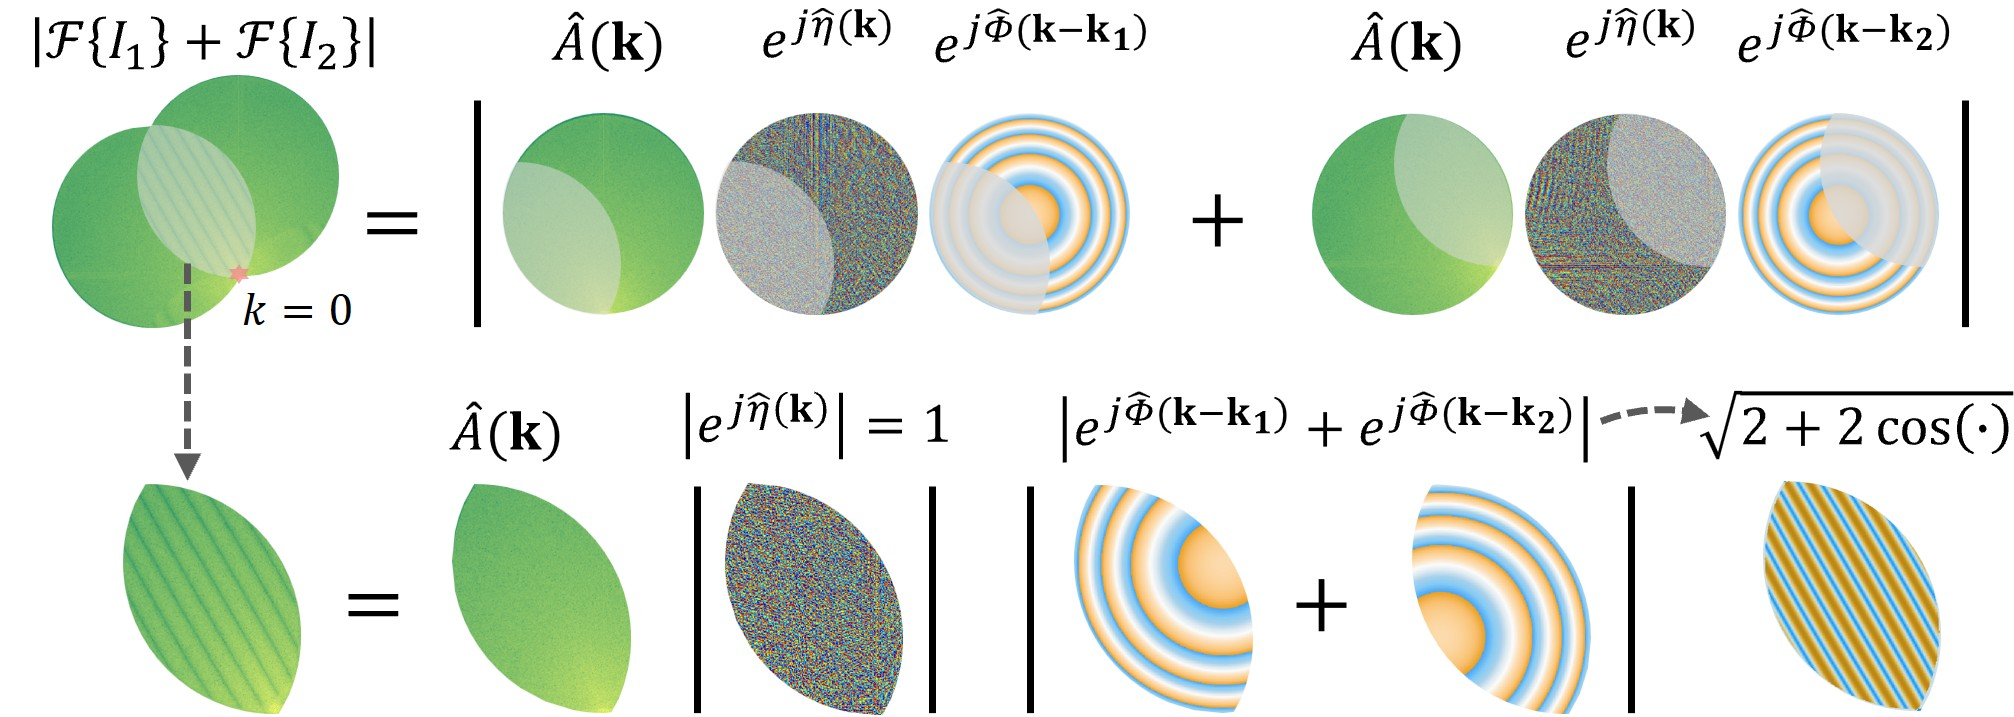
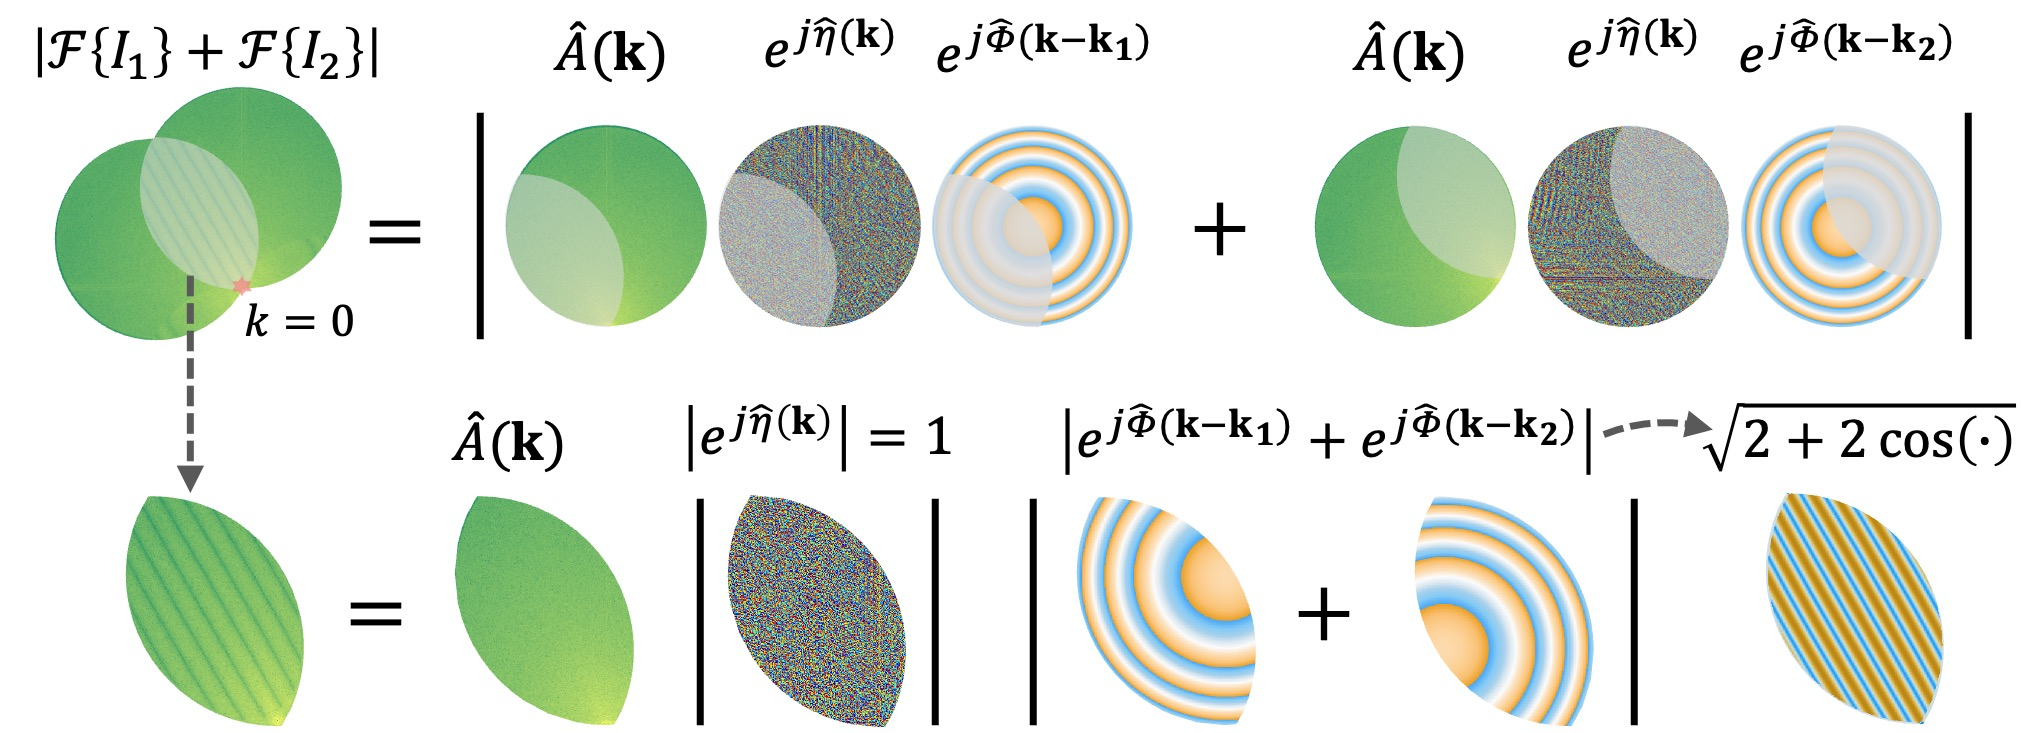
update webpage

diff --git a/index.html b/index.html
@@ -87,20 +87,20 @@
             <span class="author-block"><sup>*</sup>Equal contribution</span>
           </div>
           <div class="is-size-4 publication-authors">
-            <span class="author-block">arXiv, 2025</span>
+            <span class="author-block">Nature Communications (In Press), 2026</span>
           </div>
           <div class="column has-text-centered">
             <div class="publication-links">
               <!-- PDF Link. -->
-              <!-- <span class="link-block">
-                <a href="https://doi.org/10.1117/1.AP.7.2.026001"                           
+              <span class="link-block">
+                <a href=""                           
                    class="external-link button is-normal is-rounded is-dark">
                   <span class="icon">
                     <i class="fa-solid fa-circle-notch fa-rotate-270"></i>
                   </span>
-                  <span>Paper</span>
+                  <span>Paper in Press</span>
                 </a>
-              </span> -->
+              </span>
               <span class="link-block">
                 <a href="https://arxiv.org/abs/2507.10867"
                    class="external-link button is-normal is-rounded is-dark">
@@ -169,13 +169,13 @@
         <div class="content has-text-justified">
           <p>
             Automation in optical microscopy is critical for enabling high-throughput imaging across a wide range of biomedical applications. 
-            Among the essential components of automated systems, robust autofocusing plays a pivotal role in maintaining image quality for both single-plane and volumetric imaging.
+            Among the essential components of automated systems, robust autofocusing plays a pivotal role in maintaining image quality for both single-plane and volumetric imaging. 
             However, conventional autofocusing methods often struggle with implementation complexity, limited generalizability across sample types, incompatibility with thick specimens, and slow feedback. 
-            We recently discovered <b> a phenomenon that the digitally summed Fourier spectrum of two images acquired from two-angle illumination exhibits interference-like fringe modulation when the sample is out-of-focus. </b>
+            <b>We observed that the digitally summed Fourier spectrum of two images acquired from two-angle illumination exhibits interference-like fringe modulation when the sample is defocused.</b>
             These digital fringes correlate directly with defocus through a physics-based relation. 
-            Based on this principle, we developed an automatic, efficient, and generalizable defocus detection method termed <b> digital defocus aberration interference (DAbI)</b>. 
-            Implemented with a simple two-LED setup, DAbI can quantify the defocus distance over a range of 212 times the depth-of-field (DoF) for thin samples and 300 times for thick specimens. 
-            It can additionally extend the natural DoF of the imaging system by 20 folds when integrated with complex-field imaging. 
+            Based on this principle, we developed an automatic, efficient, and generalizable defocus detection method termed <b>digital defocus aberration interference (DAbI)</b>. 
+            Implemented with a simple two-LED setup, DAbI can quantify the defocus distance over a range of 443 times the depth-of-field (DoF) for thin samples and 296 times for thick specimens. 
+            It can additionally extend the natural DoF of the imaging system by 20 fold when integrated with complex-field imaging. We demonstrated the versatile applications of DAbI on brightfield, complex-field, refractive index, confocal, and widefield fluorescence imaging, establishing it as a promising solution for automated, high-throughput optical microscopy.
           </p>
         </div>
       </div>
@@ -215,7 +215,7 @@
       </div>
       <div class="column is-full-width has-text-centered">
         <figure>
-          <img src="./static/images/System_setup.jpg" alt="fig_root" class="scale-image">
+          <img src="./static/images/System.jpg" alt="fig_root" class="scale-image">
           <figcaption class="has-text-justified has-text-grey is-size-6 mt-2">
             DAbI's two LED illumination configuration reveals interference-like patterns
             in the digitally summed intensity spectrum.
@@ -289,10 +289,10 @@
       </div>
     </div>
 
-    <div class="container is-max-desktop">
+    <!-- <div class="container is-max-desktop">
       <div class="columns is-centered">
         <div class="column is-full">
-          <h3 class="title is-4 has-text-left">A qualitative comparison of autofocusing methods</h3>
+          <h3 class="title is-4 has-text-left">Performance of DAbI autofocusing</h3>
         </div>
       </div>
       <div class="columns is-centered has-text-justified">
@@ -301,7 +301,7 @@
               <img src="./static/images/Comparison.jpg" alt="fig_root" class="scale-image">
             </div>
       </div>
-    </div>
+    </div> -->
   </div>
 </section>
 <!--/ Autofocusing. -->
